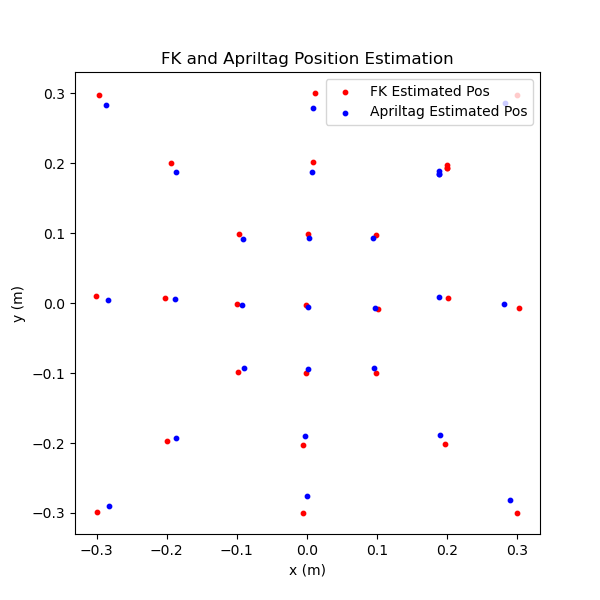
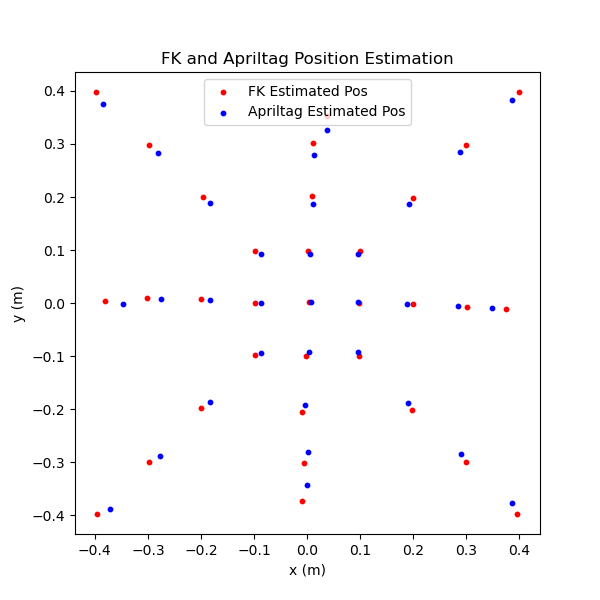
Added plots for passive ee

diff --git a/cdpr_utils/waypoint_analysis.py b/cdpr_utils/waypoint_analysis.py
@@ -2,7 +2,7 @@ import numpy as np
 import matplotlib.pyplot as plt
 import csv
 
-with open('waypoint_data/ff_traj_square25_passive.csv', 'r') as file:
+with open('waypoint_data/ff_traj_square2_passive.csv', 'r') as file:
 # with open('waypoint_data/ff_traj_square25.csv', 'r') as file:
 # with open('waypoint_data/traj_square2.csv', 'r') as file:
     csv_reader = csv.reader(file)
